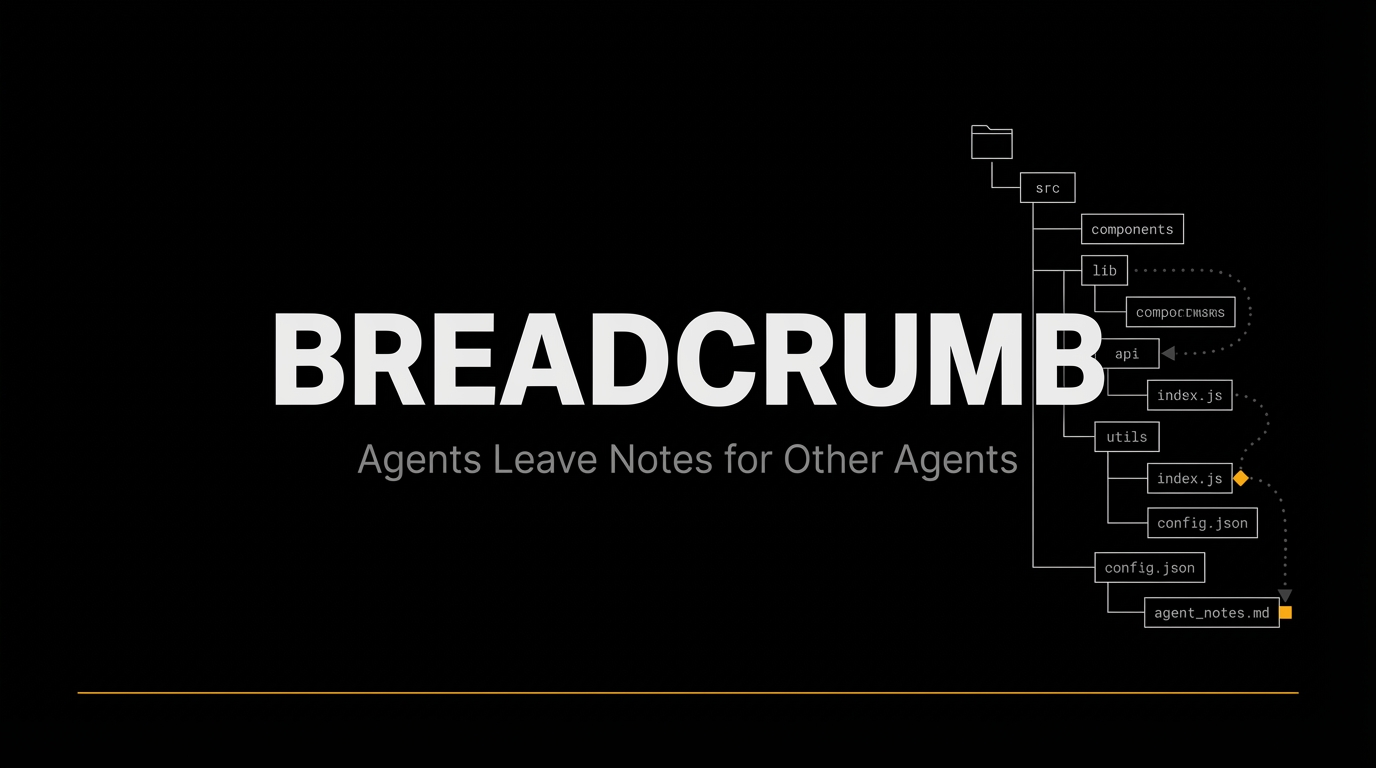
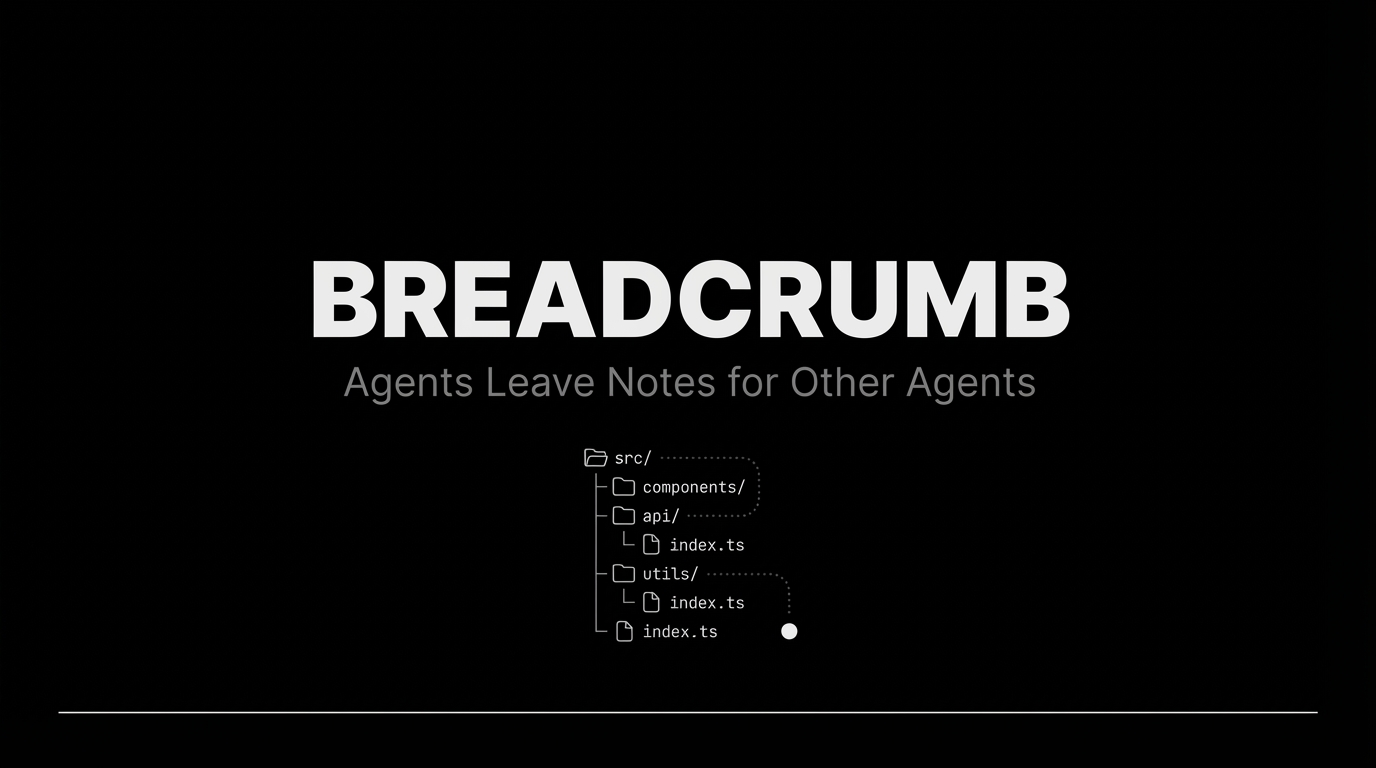
Fix vercel style using orange accents instead of white
Explicitly defined accent color as pure white (#FFFFFF) and banned
warm tones in the vercel style. Regenerated preview image — now
fully monochrome and visually distinct from engineer style.

diff --git a/src/lib/styles.ts b/src/lib/styles.ts
@@ -93,7 +93,9 @@ Color (exact Geist dark-mode tokens):
 - Destructive: #FF5B5B
 - Chart palette when data visualization is needed: amber #FFAE04, blue #2671F4, gray #747474, dim #525252, light #E4E4E4
 - No gradients. No glow effects. No colored fills beyond the token system. Purely flat, solid colors
-- Monochrome foundation: white text on black, with the gray token scale for layering
+- The accent color for emphasis is pure white (#FFFFFF) — never orange, never warm colors. When the prompt says "accent," use white or bright white against the black/dark gray background
+- Horizontal rules or dividers should be white or light gray (#A4A4A4), never orange or colored
+- Monochrome foundation: white text on black, with the gray token scale for layering. The entire slide should feel cold, precise, monochrome — no warm tones anywhere
 Visual style:
 - Swiss grid underpins everything: structured columns and rows bring order and rhythm, the grid is itself part of the aesthetic
 - If diagrams are present: thin white lines, sharp corners, no rounded edges, minimal nodes connected by clean straight or right-angle lines
